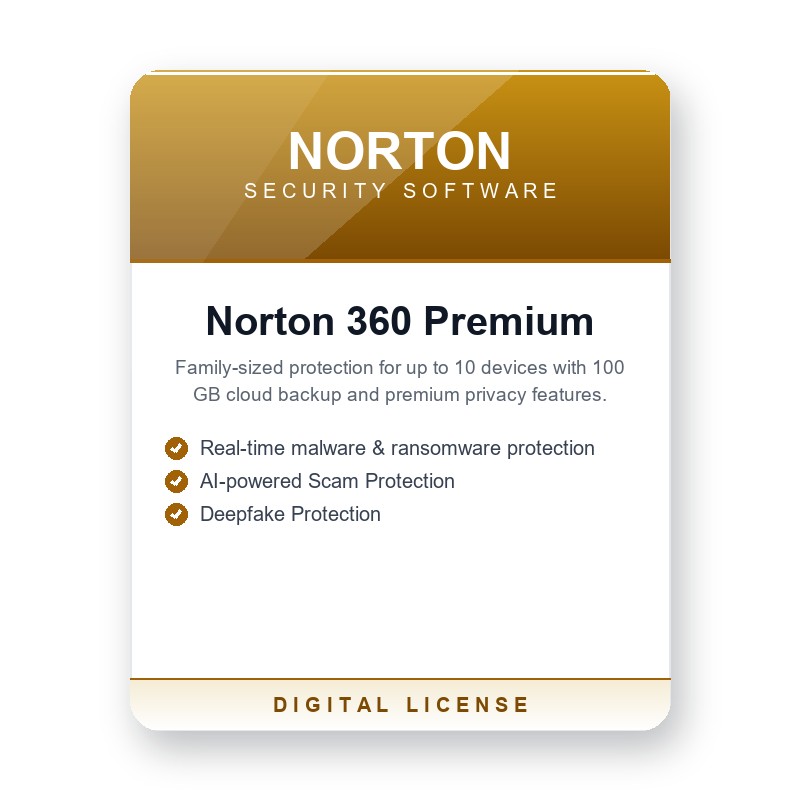
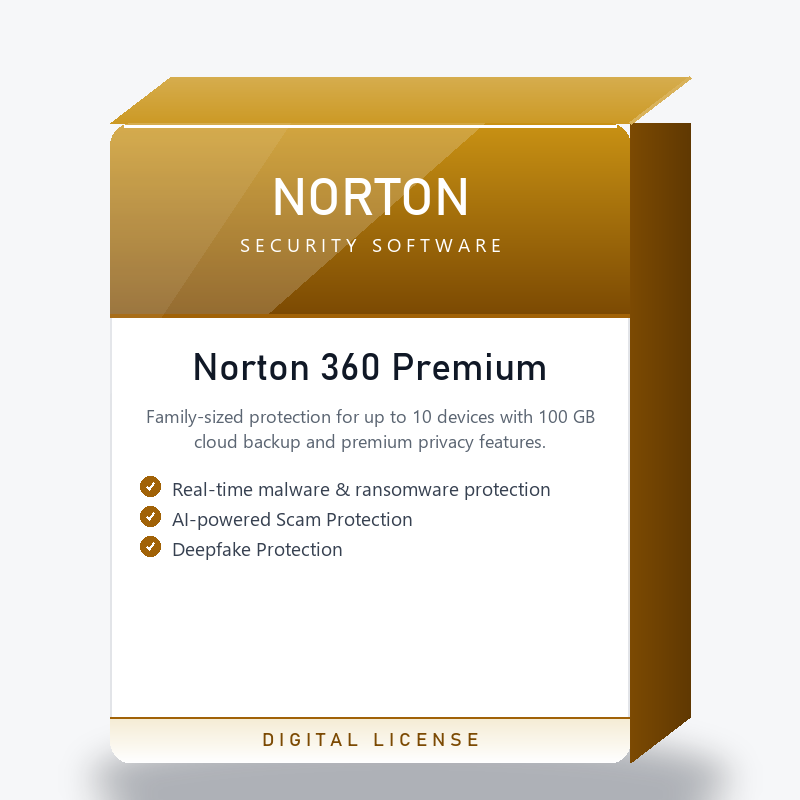
3D product-box images: bigger, glossy, better fonts
Front/top/right faces with perspective, ground shadow, Bahnschrift/Segoe
fonts, box fills more of the canvas. Still GMC-safe (product info only).

Generated with [Devin](https://devin.ai)

Changed region(s): [[0.0938, 0.0938, 0.9375, 1.0]]

diff --git a/scripts/make_product_images.py b/scripts/make_product_images.py
@@ -1,6 +1,6 @@
-"""Generate product images styled like software retail boxes.
-GMC-safe: only product information shown (brand, product name, feature
-list, license type) - no price, CTAs, seller branding or delivery claims."""
+"""Generate 3D product-box images (front + top + right faces, soft shadow).
+GMC-safe: only product information - brand, name, features, license type.
+No price, CTAs, seller branding or delivery claims."""
 import re
 import os
 from PIL import Image, ImageDraw, ImageFont, ImageFilter, ImageChops
@@ -10,8 +10,23 @@ SRC = os.path.join(ROOT, "backend", "server.py")
 OUT_DIR = os.path.join(ROOT, "frontend", "public", "images", "products")
 W, H = 800, 800
 
-FONT_BOLD = "C:/Windows/Fonts/arialbd.ttf"
-FONT_REG = "C:/Windows/Fonts/arial.ttf"
+FONTS = {
+    "display": ["C:/Windows/Fonts/bahnschrift.ttf", "C:/Windows/Fonts/segoeuib.ttf", "C:/Windows/Fonts/arialbd.ttf"],
+    "body":    ["C:/Windows/Fonts/segoeui.ttf", "C:/Windows/Fonts/arial.ttf"],
+}
+_cache = {}
+
+def font(kind, size):
+    key = (kind, size)
+    if key not in _cache:
+        for path in FONTS[kind]:
+            if os.path.exists(path):
+                _cache[key] = ImageFont.truetype(path, size)
+                break
+        else:
+            _cache[key] = ImageFont.load_default()
+    return _cache[key]
+
 
 ACCENTS = {
     "Norton":  {"hi": "#C99214", "mid": "#A16207", "lo": "#7C4A03", "soft": "#F5ECD4"},
@@ -46,11 +61,19 @@ def hex2rgb(h):
     return tuple(int(h[i:i + 2], 16) for i in (1, 3, 5))
 
 
-def wrap(draw, text, font, max_w):
+def shade(h, f):
+    """Darken (f<1) or lighten (f>1) a hex color."""
+    r, g, b = hex2rgb(h)
+    if f >= 1:
+        return tuple(int(c + (255 - c) * (f - 1)) for c in (r, g, b))
+    return tuple(int(c * f) for c in (r, g, b))
+
+
+def wrap(draw, text, fnt, max_w):
     words, lines, cur = text.split(), [], ""
     for w in words:
         t = (cur + " " + w).strip()
-        if draw.textlength(t, font=font) <= max_w:
+        if draw.textlength(t, font=fnt) <= max_w:
             cur = t
         else:
             if cur:
@@ -63,7 +86,6 @@ def wrap(draw, text, font, max_w):
 
 def vgrad(size, top, bottom):
     w, h = size
-    top, bottom = hex2rgb(top), hex2rgb(bottom)
     base = Image.new("RGB", (1, h))
     for y in range(h):
         t = y / max(h - 1, 1)
@@ -71,106 +93,145 @@ def vgrad(size, top, bottom):
     return base.resize((w, h))
 
 
+def hgrad(size, left, right):
+    w, h = size
+    base = Image.new("RGB", (w, 1))
+    for x in range(w):
+        t = x / max(w - 1, 1)
+        base.putpixel((x, 0), tuple(int(left[i] + (right[i] - left[i]) * t) for i in range(3)))
+    return base.resize((w, h))
+
+
 def draw_check(draw, cx, cy, r, color):
-    """Small filled circle with a check mark."""
     draw.ellipse([cx - r, cy - r, cx + r, cy + r], fill=color)
     p = r * 0.55
-    draw.line([(cx - p * 0.7, cy), (cx - p * 0.15, cy + p * 0.55)], fill="#FFFFFF", width=max(2, int(r * 0.28)))
-    draw.line([(cx - p * 0.15, cy + p * 0.55), (cx + p * 0.8, cy - p * 0.6)], fill="#FFFFFF", width=max(2, int(r * 0.28)))
+    wd = max(2, int(r * 0.28))
+    draw.line([(cx - p * 0.7, cy), (cx - p * 0.15, cy + p * 0.55)], fill="#FFFFFF", width=wd)
+    draw.line([(cx - p * 0.15, cy + p * 0.55), (cx + p * 0.8, cy - p * 0.6)], fill="#FFFFFF", width=wd)
+
+
+def front_face(p, a, fw, fh):
+    """The front of the box as an RGBA image."""
+    face = Image.new("RGBA", (fw, fh), (0, 0, 0, 0))
+    d = ImageDraw.Draw(face)
+    d.rounded_rectangle([0, 0, fw - 1, fh - 1], radius=22, fill="#FFFFFF", outline="#E2E4E8", width=2)
+
+    # glossy gradient header
+    band_h = int(fh * 0.30)
+    band = vgrad((fw, band_h), hex2rgb(a["hi"]), hex2rgb(a["lo"]))
+    sheen = Image.new("L", (fw, band_h), 0)
+    ImageDraw.Draw(sheen).polygon([(0, 0), (int(fw * 0.72), 0), (int(fw * 0.30), band_h), (0, band_h)], fill=48)
+    band = Image.composite(Image.new("RGB", (fw, band_h), "#FFFFFF"), band, sheen)
+    mask = Image.new("L", (fw, band_h), 0)
+    md = ImageDraw.Draw(mask)
+    md.rounded_rectangle([0, 0, fw, band_h + 40], radius=22, fill=255)
+    md.rectangle([0, band_h - 30, fw, band_h], fill=255)
+    face.paste(band, (0, 0), mask)
+    d = ImageDraw.Draw(face)
+    d.line([(14, 3), (fw - 14, 3)], fill=(255, 255, 255), width=3)
+
+    f_brand = font("display", 52)
+    bname = (p["brand"] or "").upper()
+    tw = d.textlength(bname, font=f_brand)
+    d.text(((fw - tw) / 2, band_h / 2 - 46), bname, font=f_brand, fill="#FFFFFF")
+    f_sub = font("body", 19)
+    sub = "S E C U R I T Y   S O F T W A R E"
+    tw = d.textlength(sub, font=f_sub)
+    d.text(((fw - tw) / 2, band_h / 2 + 12), sub, font=f_sub, fill=(255, 255, 255))
+
+    d.line([(0, band_h), (fw, band_h)], fill=hex2rgb(a["mid"]), width=4)
+
+    # product name
+    f_name = font("display", 38)
+    y = band_h + 34
+    for line in wrap(d, p["name"], f_name, fw - 48)[:3]:
+        tw = d.textlength(line, font=f_name)
+        d.text(((fw - tw) / 2, y), line, font=f_name, fill="#101826")
+        y += 46
+
+    # tagline
+    f_tag = font("body", 18)
+    y += 8
+    for line in wrap(d, p["tagline"], f_tag, fw - 64)[:3]:
+        tw = d.textlength(line, font=f_tag)
+        d.text(((fw - tw) / 2, y), line, font=f_tag, fill="#5B6572")
+        y += 25
+
+    # features
+    f_feat = font("body", 19)
+    fy = min(y + 22, fh - 190)
+    for feat in p["features"][:3]:
+        lines = wrap(d, feat, f_feat, fw - 120)
+        if fy + len(lines) * 25 > fh - 120:
+            break
+        draw_check(d, 40, fy + 11, 10, hex2rgb(a["mid"]))
+        for ln in lines:
+            d.text((62, fy), ln, font=f_feat, fill="#374151")
+            fy += 25
+        fy += 5
+
+    # bottom strip
+    strip_h = 46
+    strip = vgrad((fw, strip_h), hex2rgb(a["soft"]), (255, 255, 255))
+    smask = Image.new("L", (fw, strip_h), 0)
+    smd = ImageDraw.Draw(smask)
+    smd.rounded_rectangle([0, -40, fw, strip_h], radius=22, fill=255)
+    face.paste(strip, (0, fh - strip_h), smask)
+    d = ImageDraw.Draw(face)
+    d.line([(0, fh - strip_h), (fw, fh - strip_h)], fill=hex2rgb(a["mid"]), width=2)
+    f_strip = font("display", 19)
+    strip_txt = "D I G I T A L   L I C E N S E"
+    tw = d.textlength(strip_txt, font=f_strip)
+    d.text(((fw - tw) / 2, fh - strip_h + 13), strip_txt, font=f_strip, fill=hex2rgb(a["lo"]))
+
+    # faint diagonal gloss over whole face
+    gloss = Image.new("L", (fw, fh), 0)
+    ImageDraw.Draw(gloss).polygon([(0, 0), (180, 0), (0, 270)], fill=18)
+    cm = Image.new("L", (fw, fh), 0)
+    ImageDraw.Draw(cm).rounded_rectangle([0, 0, fw - 1, fh - 1], radius=22, fill=255)
+    gloss = ImageChops.multiply(gloss, cm)
+    face = Image.composite(Image.new("RGBA", (fw, fh), (255, 255, 255, 255)), face, gloss)
+    return face
 
 
 def make_image(p):
     a = ACCENTS.get(p["brand"], ACCENTS["Norton"])
-    img = Image.new("RGB", (W, H), "#FFFFFF")
+    img = Image.new("RGB", (W, H), "#F6F7F9")
+    d = ImageDraw.Draw(img)
 
-    # ---- retail box ----
-    bx, by, bw, bh = 130, 70, 540, 660
+    # ---- 3D box geometry: bigger, less canvas padding ----
+    fw, fh = 520, 640          # front face size
+    depth_x, depth_y = 60, -46 # how far the right/top faces extend
+    bx = (W - fw - depth_x) // 2
+    by = (H - fh - depth_y) // 2 + 20
+    x0, y0, x1, y1 = bx, by, bx + fw, by + fh
 
+    # ground shadow (soft ellipse behind/below the box)
     shadow = Image.new("RGBA", (W, H), (0, 0, 0, 0))
-    ImageDraw.Draw(shadow).rounded_rectangle(
-        [bx + 10, by + 18, bx + bw + 10, by + bh + 18], radius=30, fill=(16, 24, 38, 70))
-    img = Image.alpha_composite(img.convert("RGBA"), shadow.filter(ImageFilter.GaussianBlur(18))).convert("RGB")
+    sd = ImageDraw.Draw(shadow)
+    sd.ellipse([x0 - 20, y1 - 30, x1 + depth_x + 40, y1 + 60], fill=(16, 24, 38, 80))
+    img = Image.alpha_composite(img.convert("RGBA"), shadow.filter(ImageFilter.GaussianBlur(16))).convert("RGB")
     d = ImageDraw.Draw(img)
-    d.rounded_rectangle([bx, by, bx + bw, by + bh], radius=30, fill="#FFFFFF", outline="#E5E7EB", width=2)
 
-    # header: glossy gradient band with brand name
-    band_h = 190
-    band = vgrad((bw, band_h), a["hi"], a["lo"])
-    sheen = Image.new("L", (bw, band_h), 0)
-    ImageDraw.Draw(sheen).polygon(
-        [(0, 0), (int(bw * 0.72), 0), (int(bw * 0.32), band_h), (0, band_h)], fill=45)
-    band = Image.composite(Image.new("RGB", (bw, band_h), "#FFFFFF"), band, sheen)
-    mask = Image.new("L", (bw, band_h), 0)
-    md = ImageDraw.Draw(mask)
-    md.rounded_rectangle([0, 0, bw, band_h + 50], radius=30, fill=255)
-    md.rectangle([0, band_h - 40, bw, band_h], fill=255)
-    img.paste(band, (bx, by), mask)
+    # right face (darkened accent, slight vertical shading)
+    side = hgrad((depth_x + 8, fh), shade(a["lo"], 1.0), shade(a["lo"], 0.75))
+    side_mask = Image.new("L", (depth_x + 8, fh), 0)
+    ImageDraw.Draw(side_mask).polygon([(0, 0), (depth_x, depth_y), (depth_x, fh + depth_y), (0, fh)], fill=255)
+    img.paste(side, (x1, y0), side_mask)
+
+    # top face (lightened accent)
+    top = vgrad((fw + depth_x + 8, abs(depth_y) + 8), shade(a["hi"], 1.25), shade(a["hi"], 1.05))
+    top_mask = Image.new("L", (fw + depth_x + 8, abs(depth_y) + 8), 0)
+    ImageDraw.Draw(top_mask).polygon([(0, -depth_y), (depth_x, 0), (fw + depth_x, 0), (fw, -depth_y)], fill=255)
+    img.paste(top, (x0, y0 + depth_y), top_mask)
+
+    # thin bright edge along the top-right ridge
     d = ImageDraw.Draw(img)
-    d.line([(bx + 16, by + 3), (bx + bw - 16, by + 3)], fill=(255, 255, 255), width=3)
+    d.line([(x1, y0), (x1 + depth_x, y0 + depth_y)], fill=shade(a["hi"], 1.3), width=3)
 
-    f_brand = ImageFont.truetype(FONT_BOLD, 52)
-    bname = (p["brand"] or "").upper()
-    tw = d.textlength(bname, font=f_brand)
-    d.text((bx + (bw - tw) / 2, by + band_h / 2 - 44), bname, font=f_brand, fill="#FFFFFF")
-    f_sub = ImageFont.truetype(FONT_REG, 20)
-    sub = "S E C U R I T Y   S O F T W A R E"
-    tw = d.textlength(sub, font=f_sub)
-    d.text((bx + (bw - tw) / 2, by + band_h / 2 + 14), sub, font=f_sub, fill=(255, 255, 255))
-
-    # accent divider
-    d.line([(bx, by + band_h), (bx + bw, by + band_h)], fill=a["mid"], width=4)
-
-    # product name
-    f_name = ImageFont.truetype(FONT_BOLD, 40)
-    y = by + band_h + 38
-    for line in wrap(d, p["name"], f_name, bw - 56)[:3]:
-        tw = d.textlength(line, font=f_name)
-        d.text((bx + (bw - tw) / 2, y), line, font=f_name, fill="#101826")
-        y += 48
-
-    # tagline
-    f_tag = ImageFont.truetype(FONT_REG, 19)
-    y += 10
-    for line in wrap(d, p["tagline"], f_tag, bw - 80)[:3]:
-        tw = d.textlength(line, font=f_tag)
-        d.text((bx + (bw - tw) / 2, y), line, font=f_tag, fill="#5B6572")
-        y += 27
-
-    # feature list with check marks (product info = packaging copy)
-    f_feat = ImageFont.truetype(FONT_REG, 20)
-    feats = p["features"][:3]
-    fy = min(y + 26, by + bh - 210)
-    for feat in feats:
-        lines = wrap(d, feat, f_feat, bw - 130)
-        if fy + len(lines) * 27 > by + bh - 130:
-            break
-        draw_check(d, bx + 46, fy + 12, 11, a["mid"])
-        for ln in lines:
-            d.text((bx + 70, fy), ln, font=f_feat, fill="#374151")
-            fy += 27
-        fy += 6
-
-    # bottom strip: license-type info band (packaging info, not promo)
-    strip_h = 52
-    strip = vgrad((bw, strip_h), a["soft"], "#FFFFFF")
-    smask = Image.new("L", (bw, strip_h), 0)
-    smd = ImageDraw.Draw(smask)
-    smd.rounded_rectangle([0, -50, bw, strip_h], radius=30, fill=255)
-    img.paste(strip, (bx, by + bh - strip_h), smask)
-    d = ImageDraw.Draw(img)
-    d.line([(bx, by + bh - strip_h), (bx + bw, by + bh - strip_h)], fill=a["mid"], width=2)
-    f_strip = ImageFont.truetype(FONT_BOLD, 20)
-    strip_txt = "D I G I T A L   L I C E N S E"
-    tw = d.textlength(strip_txt, font=f_strip)
-    d.text((bx + (bw - tw) / 2, by + bh - strip_h + 15), strip_txt, font=f_strip, fill=a["lo"])
-
-    # subtle diagonal gloss over the whole box
-    gloss = Image.new("L", (W, H), 0)
-    ImageDraw.Draw(gloss).polygon([(bx, by), (bx + 200, by), (bx, by + 300)], fill=18)
-    cm = Image.new("L", (W, H), 0)
-    ImageDraw.Draw(cm).rounded_rectangle([bx, by, bx + bw, by + bh], radius=30, fill=255)
-    gloss = ImageChops.multiply(gloss, cm)
-    img = Image.composite(Image.new("RGB", (W, H), "#FFFFFF"), img, gloss)
+    # front face with packaging design
+    face = front_face(p, a, fw, fh)
+    img.paste(face, (x0, y0), face)
 
     return img
 
